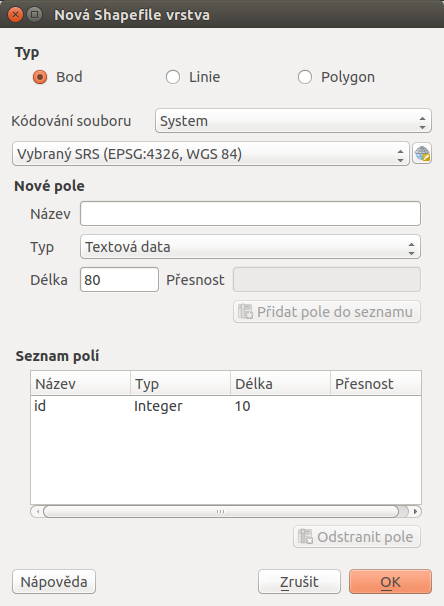
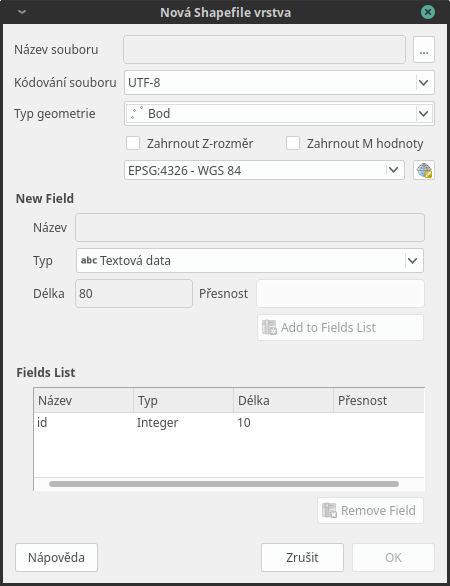
udpate:new layer

Changed region(s): [[0.0, 0.0, 1.0, 1.0]]

diff --git a/vektorova_data/editace.rst b/vektorova_data/editace.rst
@@ -65,8 +65,10 @@ vrstvu --> Nová Shapefile vrstva`.
    
    Nová vektorová vrstva.
 
-Při vytváření zvolíme typ vrstvy (bod, linie nebo polygon), souřadnicový
-systém vrstvy, a pokud je třeba, přidáme nové atributy.
+V první řadě je nutné zadat cetu, kam se nová vrstva vytvoří. Dále při
+vytváření zvolíme typ vrstvy (bod, linie nebo polygon), souřadnicový
+systém vrstvy, a pokud je třeba, přidáme nové atributy. Také lze nastavit
+vytvoření Z hodnot (nadmořské výšky) nebo M hodnot (další měřené hodnoty).
 
 Vytváření nového atributu:
 
@@ -82,20 +84,18 @@ Vytváření nového atributu:
       číslo (max. 10 znaků)
     - :option:`Datum` (Date) - formát buněk je datum (max. 20 znaků)
 
-- :item:`Šířka` - počet znaků
+- :item:`Délka` - počet znaků
 - :item:`Přesnost` - počet desetinných míst
 - pro přidání atributu vrstvy je nutné kliknout na tlačítko
-  |mActionNewAttribute| :item:`Přidat pole do seznamu`
+  |mActionNewAttribute| :item:`Add to Fields List`
 
 Ve spodní části okna máme seznam atributů, které máme ve vrstvě
 připravené. Atributy lze odstranit označením a kliknutím na tlačítko
-|mActionDeleteAttribute| :item:`Odstranit pole`. Automaticky je zde
+|mActionDeleteAttribute| :item:`Remove Field`. Automaticky je zde
 přidaný atribut "id", pokud ho nechceme, lze jej také vymazat.
 
-Pokud máme vše nastaveno, potvrdíme tlačítkem :item:`OK`. V dalším okně zvolíme
-název vrstvy a adresář, ve kterém se vrstva vytvoří, a potvrdíme
-tlačítkem :item:`Uložit`. Vytvořená vrstva se automaticky nahraje
-do projektu.
+Pokud máme vše nastaveno, potvrdíme tlačítkem :item:`OK` a nová vrstva se 
+automaticky nahraje do projektu.
 
 Editace vrstvy
 --------------
